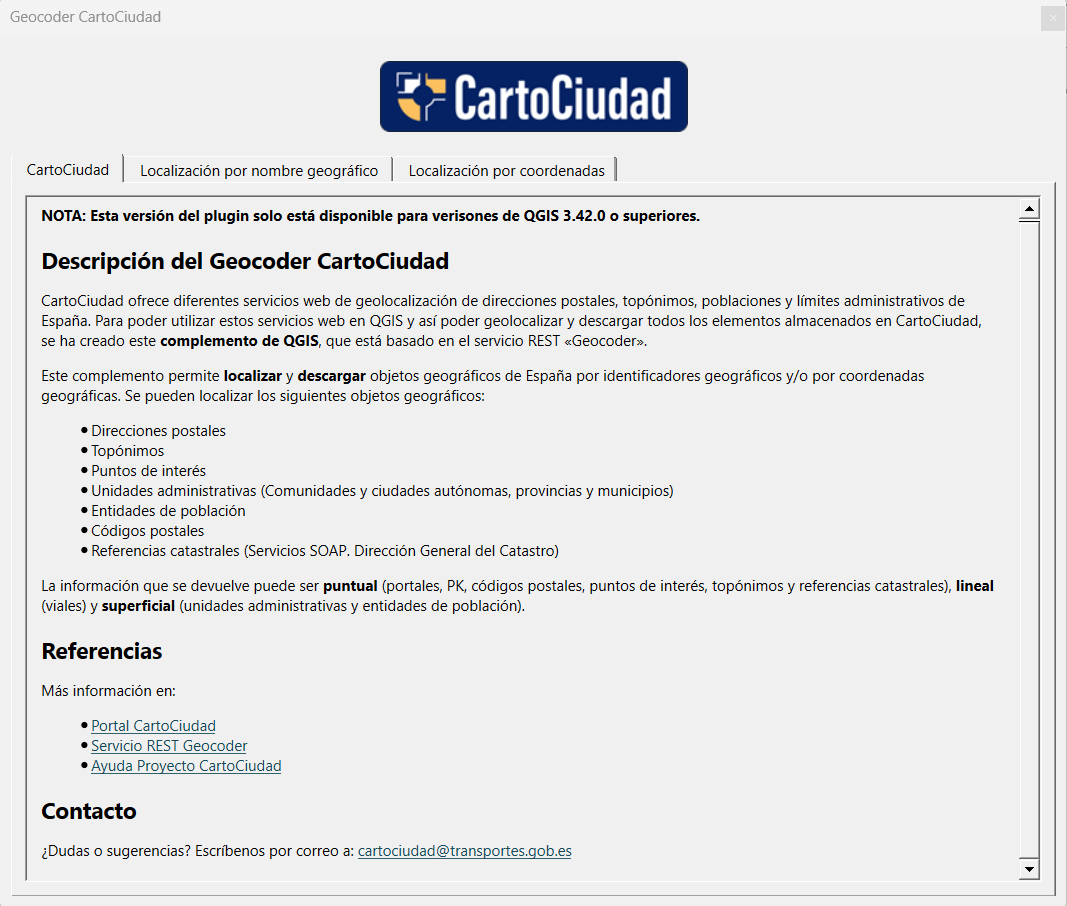
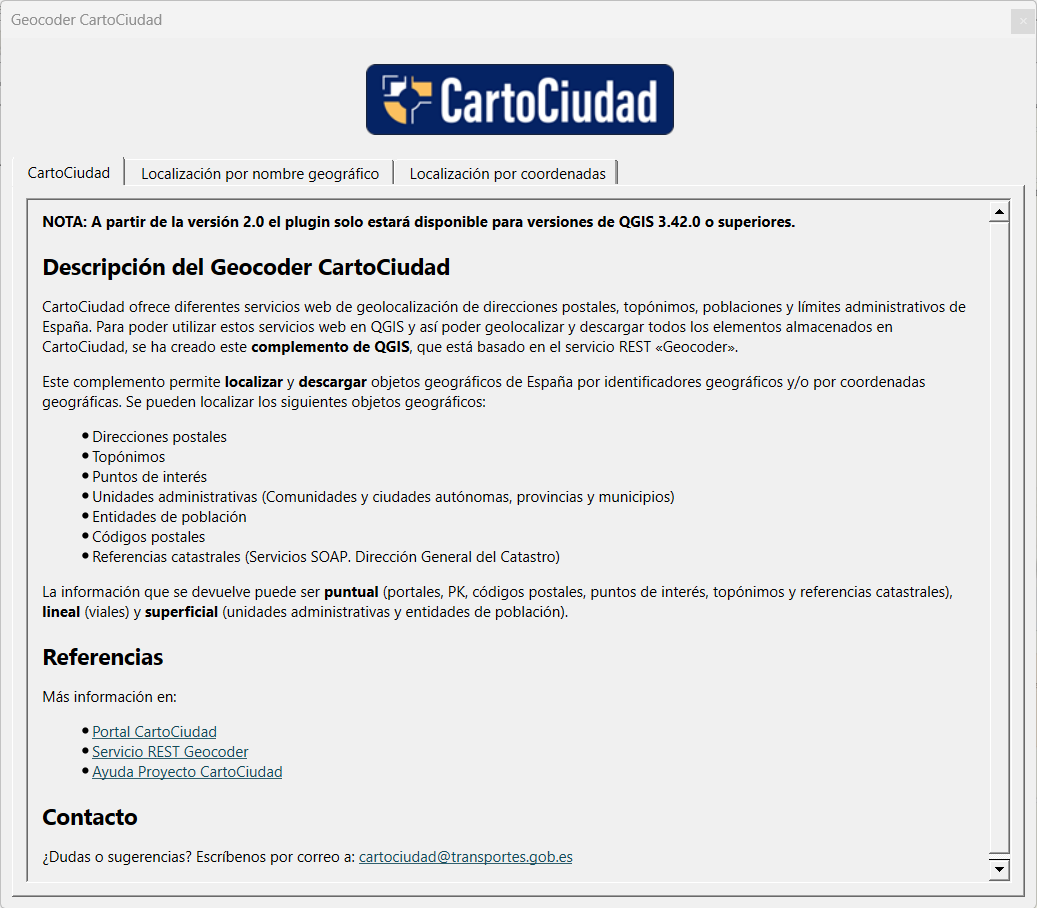
correciones

diff --git a/main.py b/main.py
@@ -273,7 +273,7 @@ class MyDockWidget(QDockWidget):
         layout = QVBoxLayout(tab)
 
         label = QLabel(
-            "<p><b>NOTA: A partir de la versión 2.0 del plugin solo está disponible para versiones de QGIS 3.42.0 o superiores.</b></p>"
+            "<p><b>NOTA: A partir de la versión 2.0 el plugin solo estará disponible para versiones de QGIS 3.42.0 o superiores.</b></p>"
             "<h2>Descripción del Geocoder CartoCiudad</h2>"
             "<p>CartoCiudad ofrece diferentes servicios web de geolocalización de direcciones postales, topónimos, "
             "poblaciones y límites administrativos de España. Para poder utilizar estos servicios web en QGIS y así "

diff --git a/README.md b/README.md
@@ -2,7 +2,7 @@
 
 ⚠ **NOTA** ⚠
 
-A partir de la versión 2.0 del plugin solo está disponible para versiones de QGIS 3.42.0 o superiores
+A partir de la versión 2.0 el plugin solo estará disponible para versiones de QGIS 3.42.0 o superiores
 
 
 ## ✍ Descripción del plugin
@@ -205,6 +205,13 @@ b) Mediante la herramienta de *Unir capas vectoriales* y posteriormente exportar
 c) Mediante el complemento expermiental externo *QConsolidate3*.
 
 
+## 📄 Documentación auxiliar <a name="auxiliar"></a>
+
+[👆 Volver](#contenidos)
+
+Tres tablas correspondientes con los nombres y códigos respectivos de comunidades y ciudades autónomas, provincias y municipios, recopiladas por CartoCiudad, procedentes del Instituto Geográfico Nacional. Con dichos nombres se pueden hacer una serie de filtrados en el *plugin*.
+
+
 ## 📁 Estructura del código <a name="estructura"></a>
 
 [👆 Volver](#contenidos)
@@ -218,7 +225,8 @@ c) Mediante el complemento expermiental externo *QConsolidate3*.
 ├── main.py 📁            # Integración de elementos
 ├── name.py 📁            # Localización por nombre geográfico
 ├── reverse 📁            # Localización por coordenadas
-└── estilos 📁            # Simbología QGIS
+├── estilos 📁            # Simbología QGIS  
+└── compact.py 📁         # Archivo compatibilidad QT5-QT6                                                                    
 ```
 ---
 
